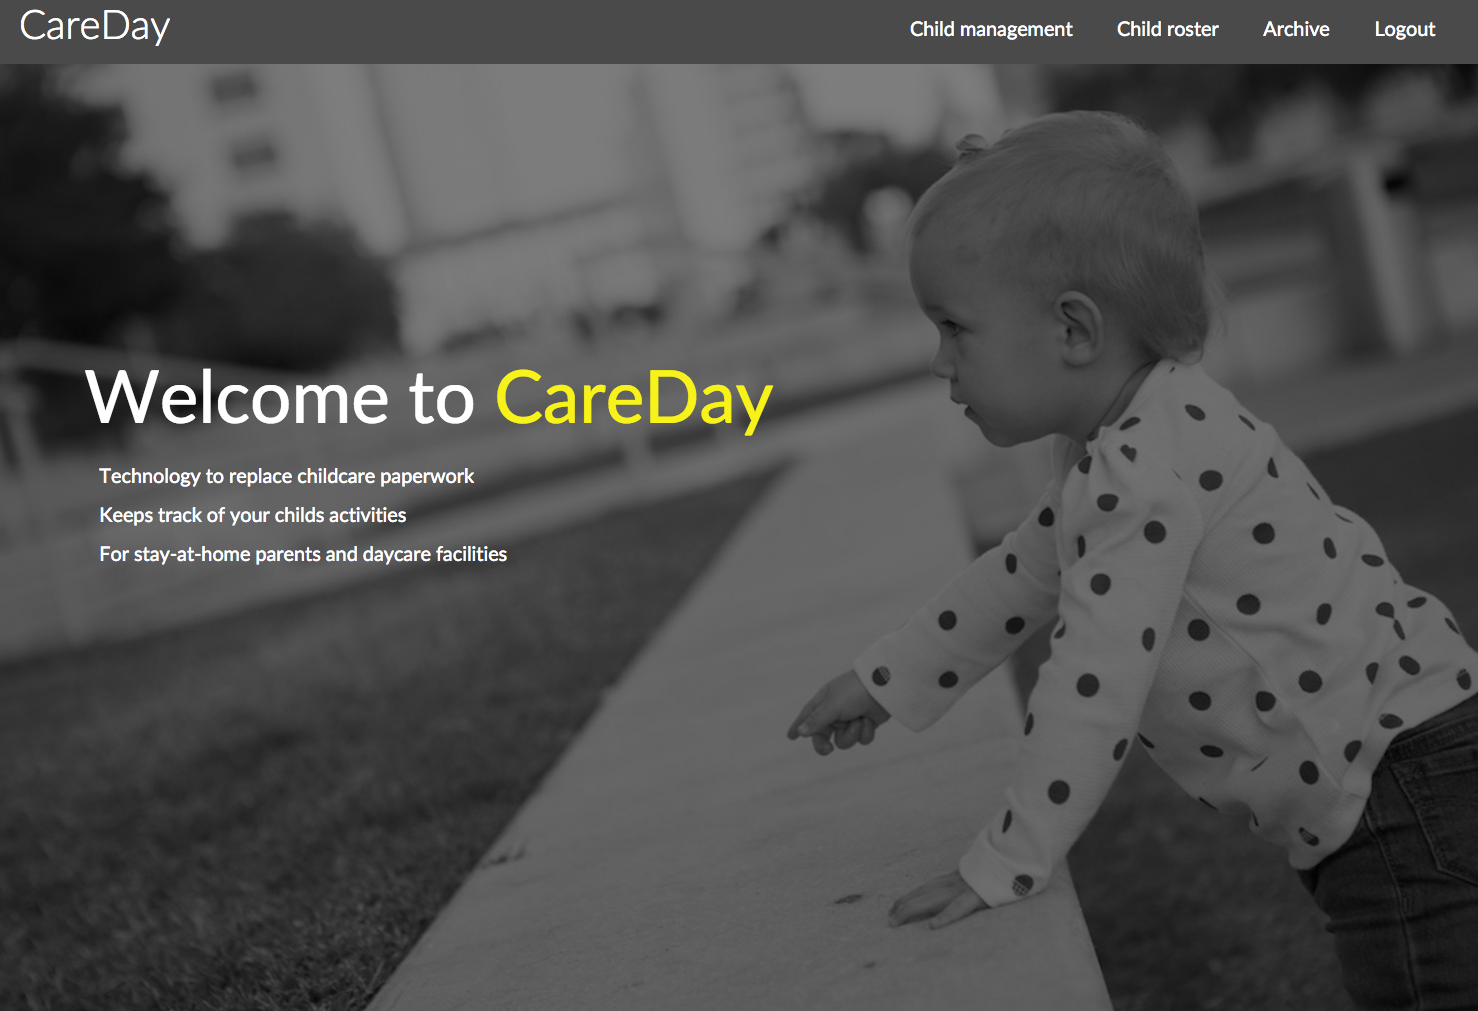
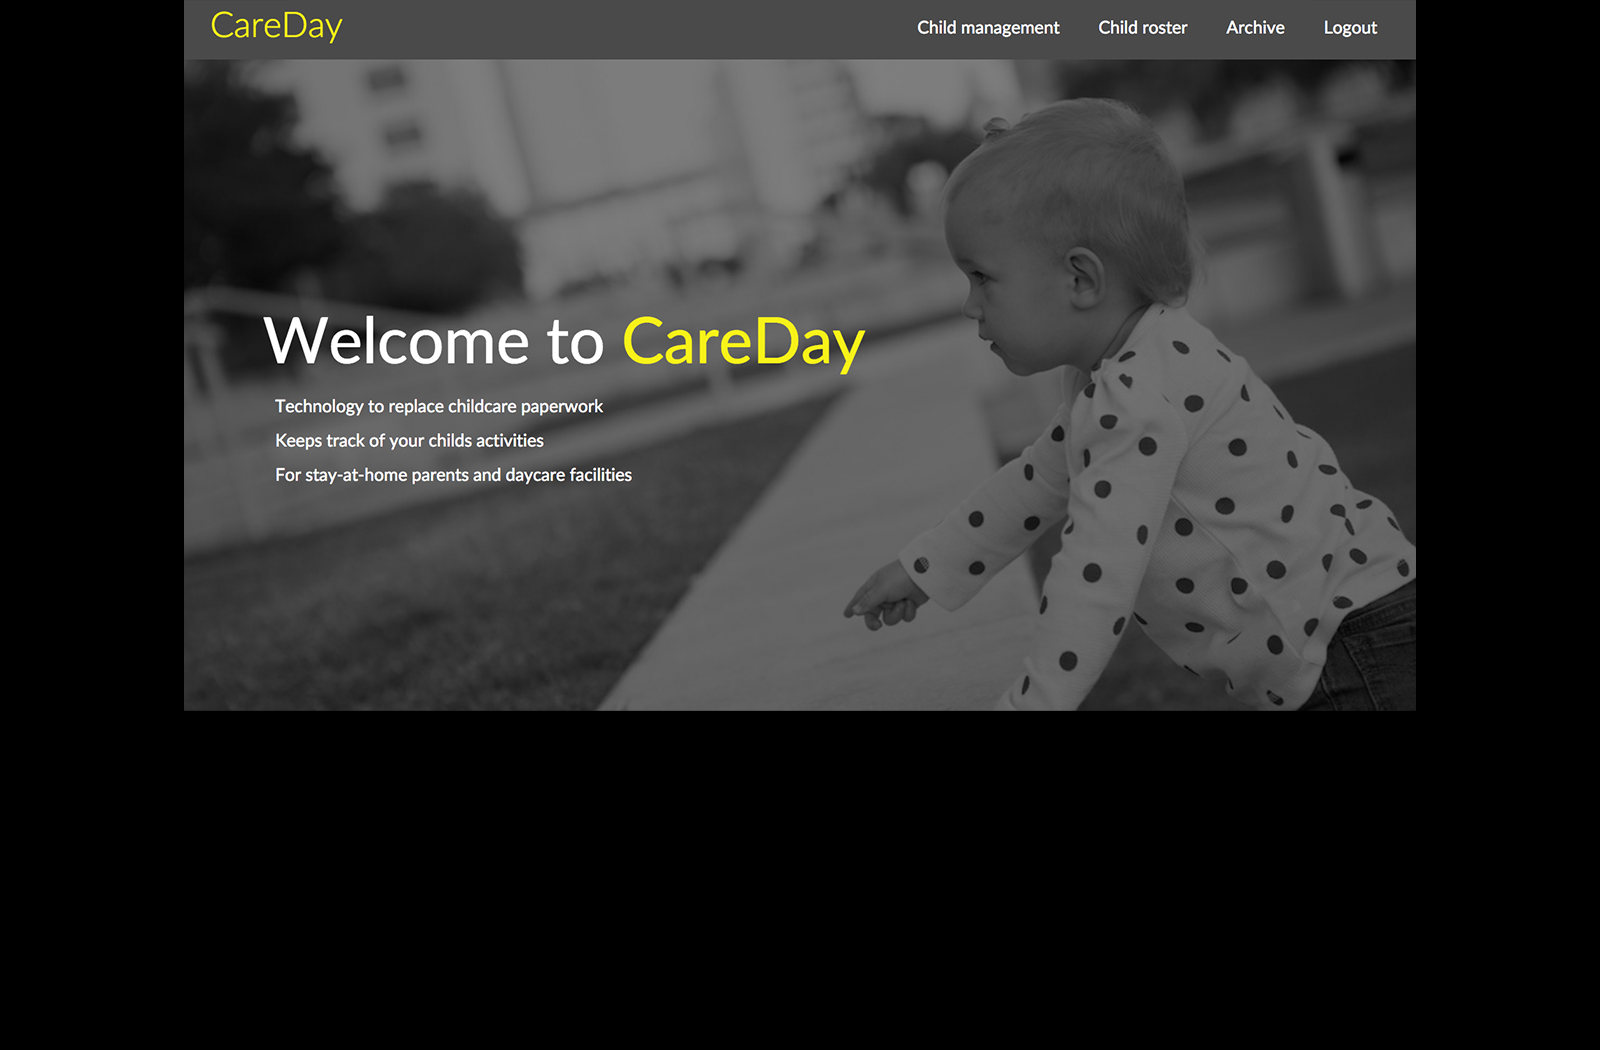
added repo button and better careday text

diff --git a/index.html b/index.html
@@ -65,26 +65,30 @@
 
 			<!-- One -->
 				<section id="one" class="spotlight style1 bottom">
-					<span class="image fit main"><img src="images/careday2.png" alt="CareDay Project" /></span>
+					<span class="image fit main"><img src="images/careday.png" alt="CareDay Project" /></span>
 					<div class="content">
 						<div class="container">
 							<div class="row">
 								<div class="4u 12u$(medium)">
 									<header>
-										<h2>CareDay</h2>
-										<p>The Iron Yard Final Project
-										<br>Team Leader, Python/Django Developer  (November 2015)</p>
+										<h2 style="margin-bottom: 10px; ">CareDay</h2>
+										<h3>The Iron Yard Final Project</h3>
+										<p>Team Leader, Python/Django Developer <br />
+										(November 2015)</p>
+										<ul class="actions">
+											<li><a href="https://github.com/rryanburton/CareDay-RB" class="button">Code at GitHub</a></li>
+										</ul>
 									</header>
 								</div>
 								<div class="4u 12u$(medium)">
-									<p>I helped author a Python-based web application that allows childcare workers or stay-at-home parents to record daily info.  CareDay streamlines tracking daily child activities and seeks to reduce paperwork.</p>
+									<p>I'm a new dad and my wife and I were struggling to keep up with all the pieces of paper coming home from our son's daycare. I decided to build a solution. CareDay is a web application that allows childcare workers or stay-at-home parents to record daily events in a child's life.</p>
 								</div>
 								<div class="4u$ 12u$(medium)">
-									<p>
-									We used a Django back-end with Django templates and JavaScript to manage the form-heavy application. I guided a team of three developers using Agile methodologies by delegating tasks and maintaining constructive workflow.</p>
+									<p>CareDay streamlines tracking daily child activities, allows for easy retrieval, and reduces paper use. I guided a team of three developers using Agile practices to maintain constructive workflow. We used a Python/Django back-end with Django templates and JavaScript to manage the form-heavy application.</p>
 								</div>
 							</div>
 						</div>
+
 					</div>
 					<!-- <a href="#two" class="goto-next scrolly">Next</a> -->
 				</section>
